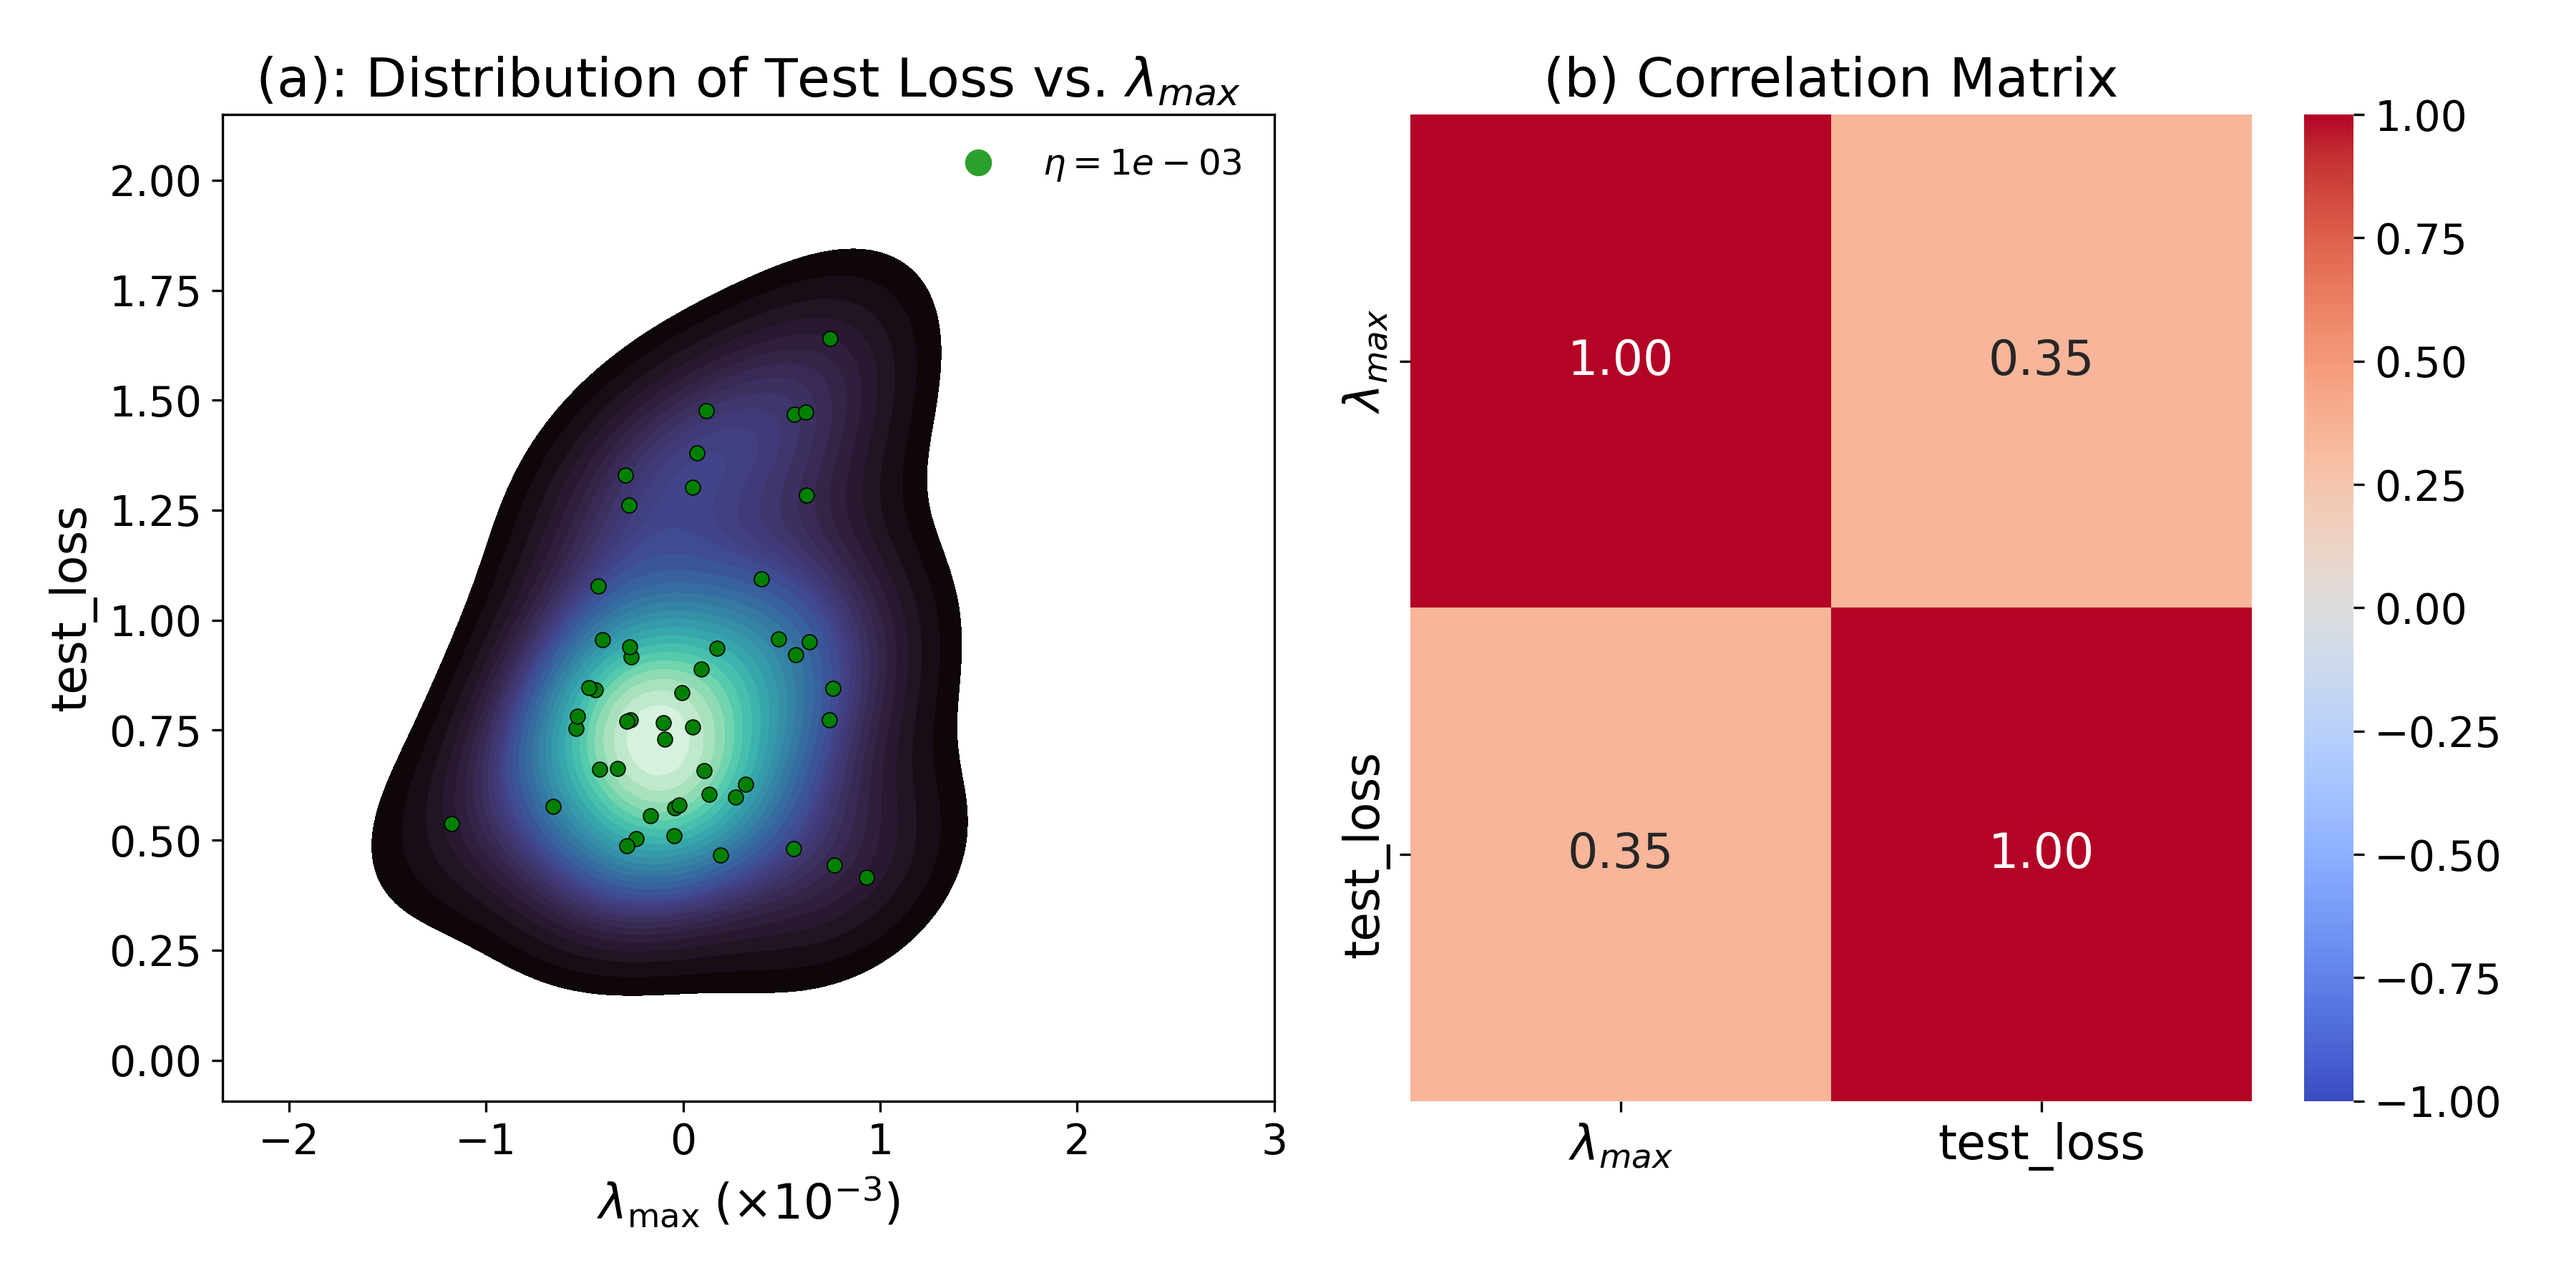
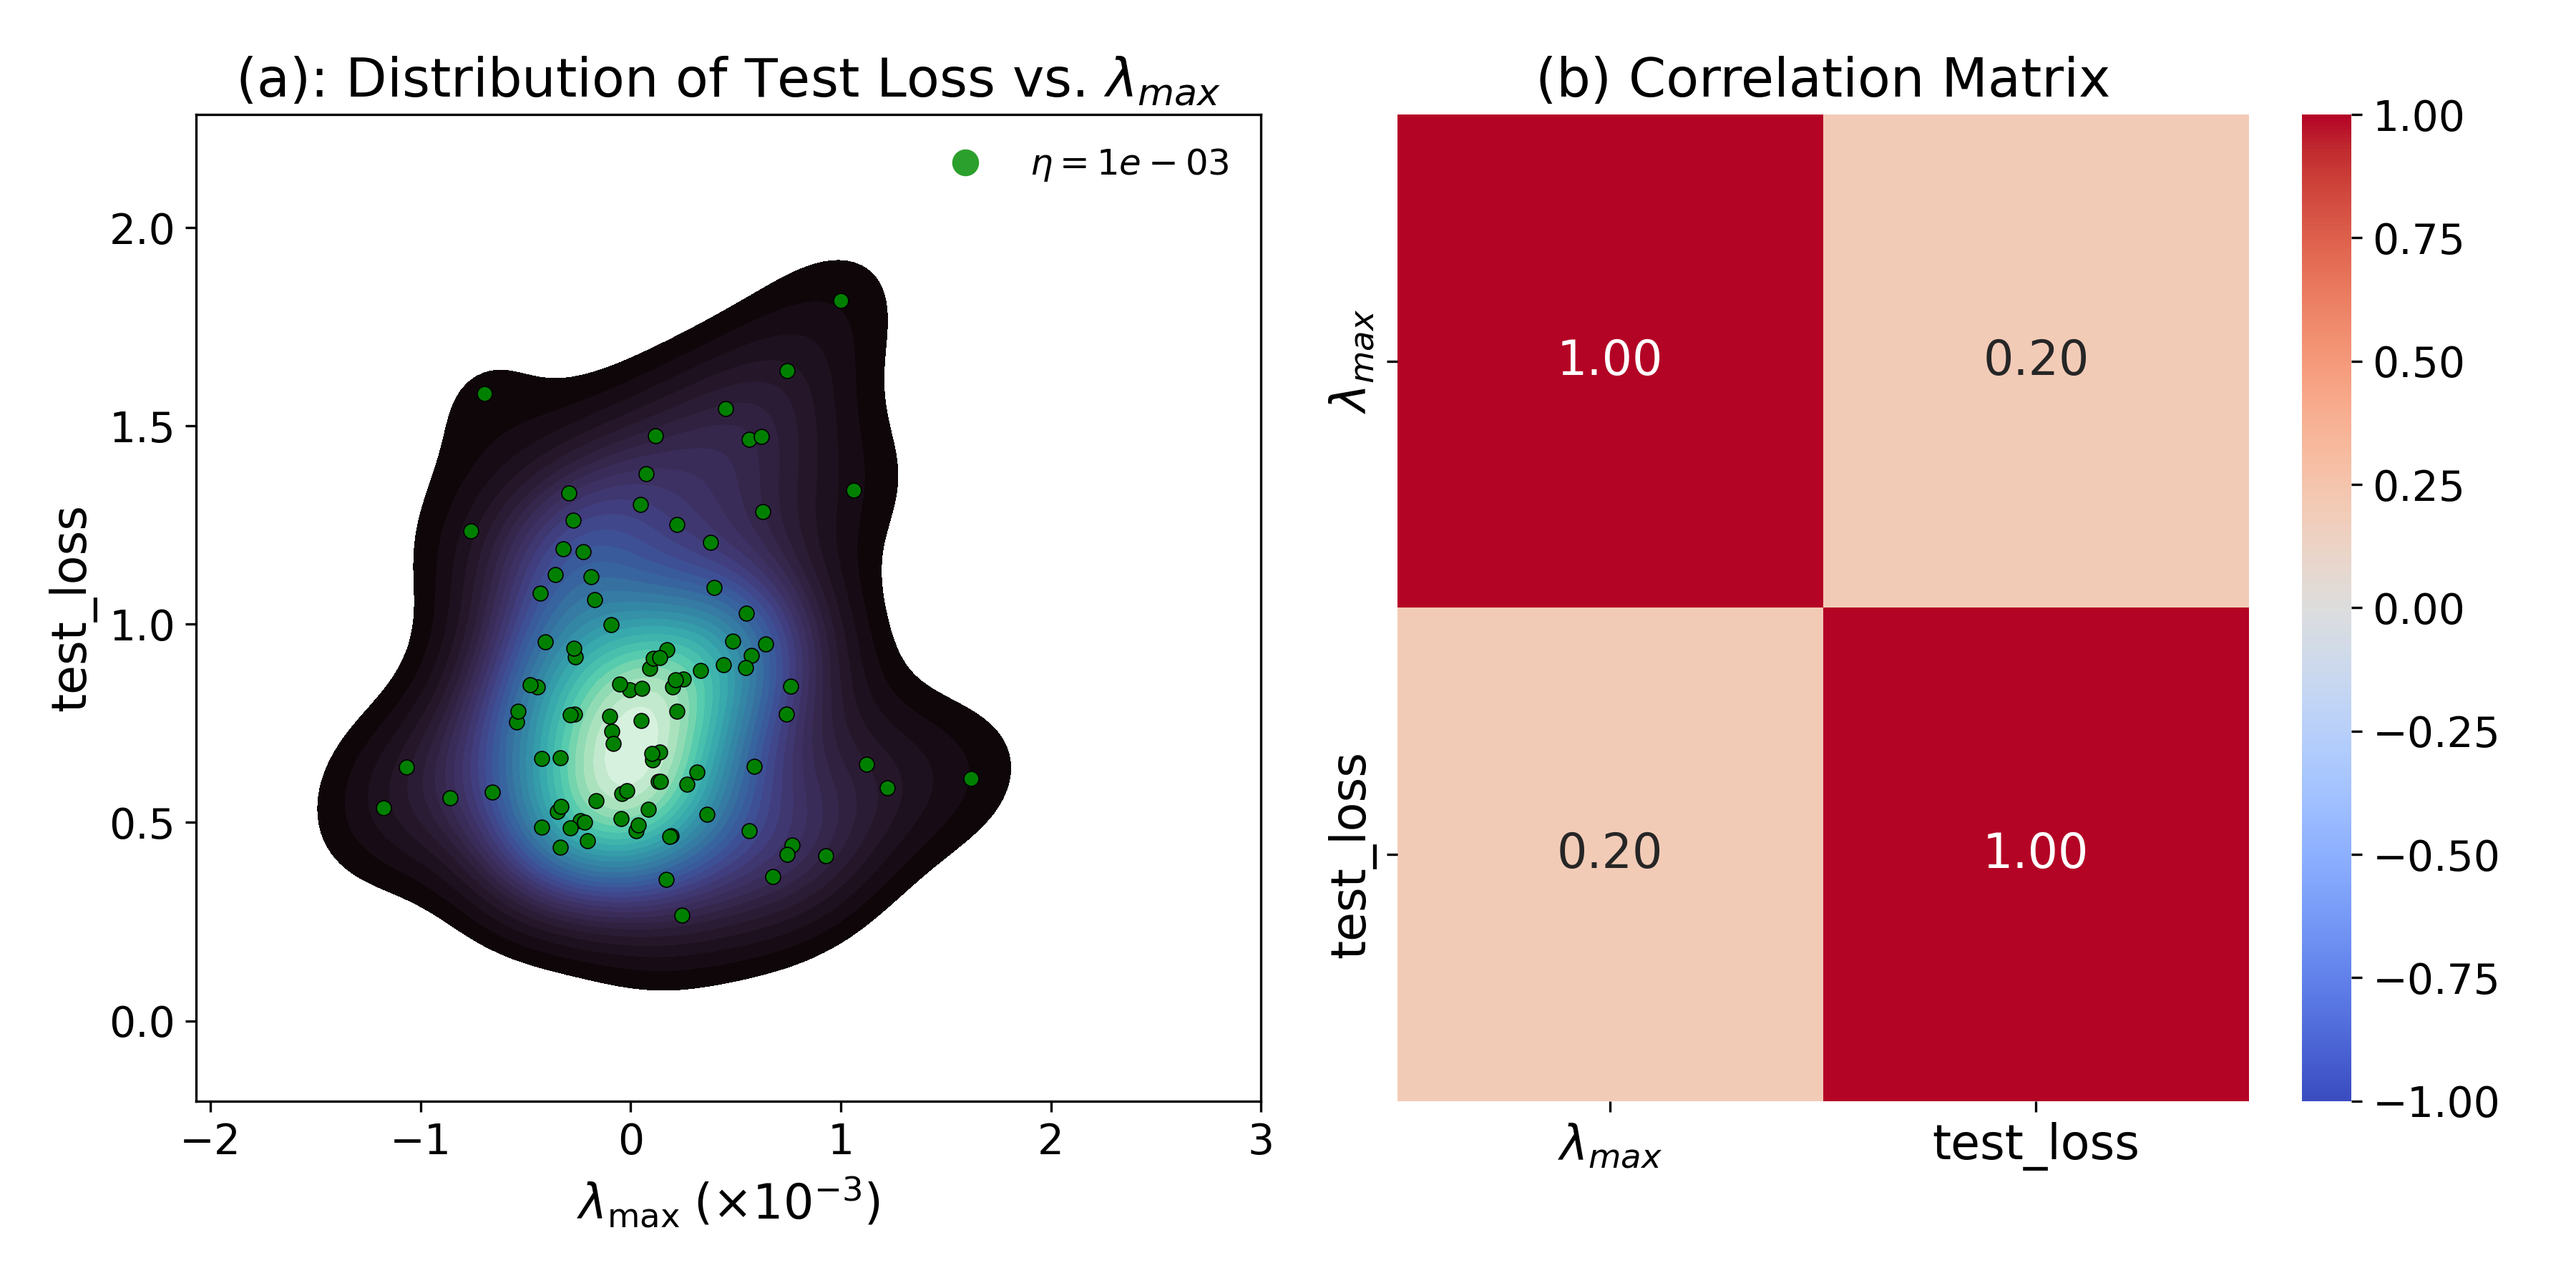
Updated script files

diff --git a/plot_results.py b/plot_results.py
@@ -14,10 +14,13 @@ plt.rcParams.update({
     "figure.titlesize": 20,
 })
 
+
+
 # Change the data_path to point to the .npz file on your computer.
-data_path = "results_random_lr_20seed.npz"  # "/home/sharma/Projects/DDAT/Lyap_Exp/results_random_weight_50seed.npz" #
+data_path = "results_random_weight.npz"  # "results_random_lr_20" #
 data = np.load(data_path) #lr with random weights
 
+err_bars ='sem' #or 'std'
 # Extract arrays
 lams      = data["lambda_max"]        # HVP λ_max
 lams_dns  = data["lambda_max_dns"]    # DNS λ_max
@@ -183,7 +186,7 @@ outfile = f"Minimum_Viable_product_two_panel_{tag}.png"
 plt.savefig(outfile, dpi=300)
 plt.show()
 
-if "_lr_" in data_path:
+if "_lr_" in data_path and err_bars=="std":
 
     #Plots for (a) test_loss vs learning rate  (b) lambda_max vs learning rate and (c) sigma_max vs learning rate
     # Unique LR values
@@ -235,7 +238,72 @@ if "_lr_" in data_path:
     ax[2].grid(alpha=0.3)
     plt.tight_layout()
     plt.legend()
-    outfile = f"three_panel_{tag}.png"
+    outfile = f"three_panel_{tag}_{err_bars}.png"
+    plt.savefig(outfile, dpi=300)
+    plt.show()
+
+elif "_lr_" in data_path and err_bars=="sem":
+    # Unique LR values
+    unique_lrs = np.unique(lrs)
+
+    # SEM calculation for each learning rate
+    sem_test = []
+    sem_lam = []
+    sem_sigma = []
+
+    mean_test = []
+    mean_lam = []
+    mean_sigma = []
+
+    for lr in unique_lrs:
+        mask = (lrs == lr)
+
+        mean_test.append(errs[mask].mean())
+        sem_test.append(errs[mask].std(ddof=1) / np.sqrt(mask.sum()))
+
+        mean_lam.append(lams[mask].mean())
+        sem_lam.append(lams[mask].std(ddof=1) / np.sqrt(mask.sum()))
+
+        mean_sigma.append(sigma_max[mask].mean())
+        sem_sigma.append(sigma_max[mask].std(ddof=1) / np.sqrt(mask.sum()))
+
+    # ---------------- FIGURE ----------------
+    fig, ax = plt.subplots(1, 3, figsize=(18, 5))
+
+    # ========== (a) Test Loss ==========
+    ax[0].errorbar(unique_lrs, mean_test, yerr=sem_test,
+                   marker='o', color='red', capsize=4, linewidth=2)
+    ax[0].set_xscale('log')
+    ax[0].set_title("(a) Test Loss", fontsize=14)
+    ax[0].set_xlabel(r"Learning rate ($\eta$)")
+    ax[0].set_ylabel("test_loss")
+    ax[0].grid(alpha=0.3)
+
+    # ========== (b) Lambda_max ==========
+    ax[1].errorbar(unique_lrs, mean_lam, yerr=sem_lam,
+                   marker='o', color='blue', capsize=4, linewidth=2)
+    ax[1].set_xscale('log')
+    ax[1].set_title(r"(b) Largest Lyapunov Exponent ($\lambda_{\max}$)", fontsize=14)
+    ax[1].set_xlabel(r"Learning rate ($\eta$)")
+    ax[1].set_ylabel(r"$\lambda_{\max}$")
+    ax[1].grid(alpha=0.3)
+
+    # ========== (c) Sigma_max ==========
+    ax[2].errorbar(unique_lrs, mean_sigma, yerr=sem_sigma,
+                   marker='o', color='green', capsize=4, linewidth=2)
+    ax[2].set_xscale('log')
+    ax[2].set_yscale('log')
+
+    ax[2].plot(unique_lrs, 2/unique_lrs, 'k--', label=r"$2/\eta$")
+
+    ax[2].set_title(r"(c) Maximum Hessian eigenvalue ($\sigma_{\max}$)", fontsize=14)
+    ax[2].set_xlabel(r"Learning rate ($\eta$)")
+    ax[2].set_ylabel(r"$\sigma_{\max}$")
+    ax[2].grid(alpha=0.3)
+
+    plt.tight_layout()
+    plt.legend()
+    outfile = f"three_panel_{tag}_{err_bars}.png"
     plt.savefig(outfile, dpi=300)
     plt.show()
 

diff --git a/Study_A.py b/Study_A.py
@@ -635,10 +635,10 @@ if __name__ == "__main__":
     N = 506       # size of the Boston housing dataset
     data_seed = 0 # fix seed for generating data
     bs = 32         #batch size
-    save_results  = True  #Save results to csv
+    save_results  = True  #Save results to npz file
 
     #WIDTHS = [20] #20, 50, 100, 200 # width of the hidden layer
-    width = 100 # width of the hidden layer 20 is best
+    width = 50 # width of the hidden layer 20 is best
     LRS    = [1e-3] #[1e-5,1e-4,1e-3,1e-2,5e-2] #5e-5, 1e-4, 3e-4 # fixed learning rates
     RUNS_PER_CONFIG = 100 # number of runs
 
@@ -685,6 +685,6 @@ if __name__ == "__main__":
         results_np = {key: np.array([d[key] for d in results])
                       for key in results[0].keys()}
         # Save as NPZ
-        np.savez("results_random_weight_100.npz", **results_np)
+        np.savez("results_random_weight.npz", **results_np)
         print("Saved results to results_random_weight.npz")
 

diff --git a/Study_B.py b/Study_B.py
@@ -694,7 +694,7 @@ if __name__ == "__main__":
     bs = 32         #batch size
     save_results  = True  #Save results to csv
 
-    width = 100 # width =50
+    width = 50# width =50
     LRS    = [1e-5,1e-4,1e-3,1e-2,1e-1]
     RUNS_PER_CONFIG = 40 # number of runs
 
@@ -741,6 +741,6 @@ if __name__ == "__main__":
         results_np = {key: np.array([d[key] for d in results])
                       for key in results[0].keys()}
         # Save as NPZ
-        np.savez("results_random_lr_40.npz", **results_np)
+        np.savez("results_random_lr.npz", **results_np)
         print("Saved results to results_random_lr.npz")
 

diff --git a/README.md b/README.md
@@ -68,12 +68,12 @@ python3 plot_results.py
 
 ## Test loss vs Max Lyapunov Exponent for different parameter initializations
 
-![Test loss vs Max Lyapunov Exponent for different learning rates](Minimum_Viable_product_two_panel_weight.png)
+![Test loss vs Max Lyapunov Exponent for different intializations](Minimum_Viable_product_two_panel_weight.png)
 
 Correlation Results between `test_loss` and  `λmax` for different parameter initializations
 ```bash
-Pearson r: 0.34530218186201544 p-value: 0.014050874628482058 
-Spearman ρ: 0.16859543817527012 p-value: 0.24184094814296866 
+Pearson r: 0.19903007516812207 p-value: 0.04712374877947491
+Spearman ρ: 0.08186018601860186 p-value: 0.4181297924323807
 ✔ Statistically significant (p < 0.05)
 ```
 
@@ -108,7 +108,7 @@ Spearman ρ: 0.8588178817881787 p-value: 3.173921991080019e-30
 
 # Test loss, Max Lyapunov Exponent,Max Hessian Eigenvalue (full batch) variation  for different learning rates
 
-![Test loss, Max Lyapunov Exponent and Maximum Hessian Eigenvalue for different learning rates](three_panel.png)
+![Test loss, Max Lyapunov Exponent and Maximum Hessian Eigenvalue for different learning rates](three_panel_lr_sem.png)
 
 
 ## Pre-trained Model and Data
